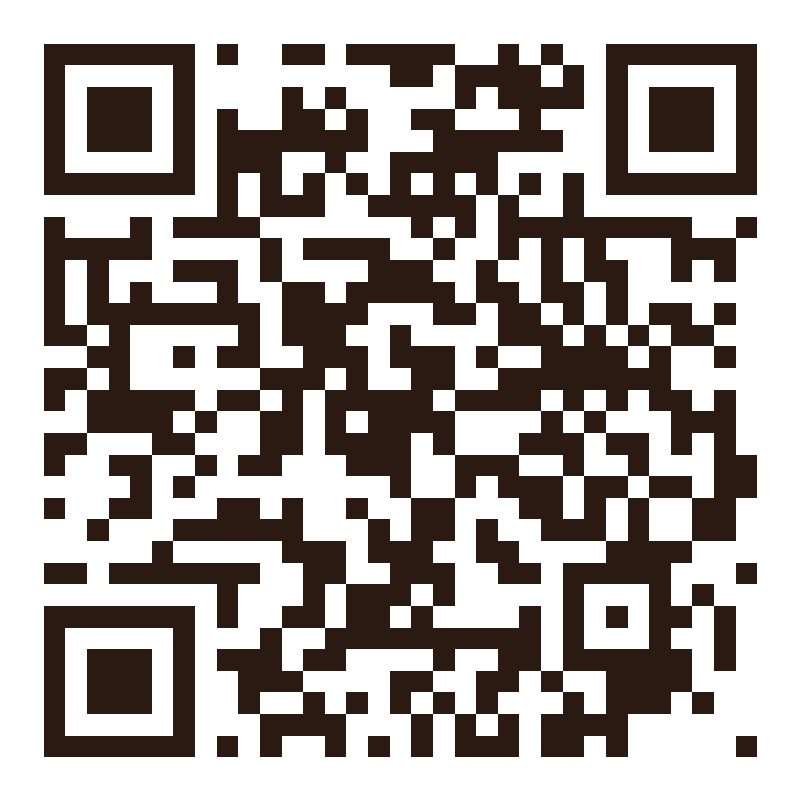
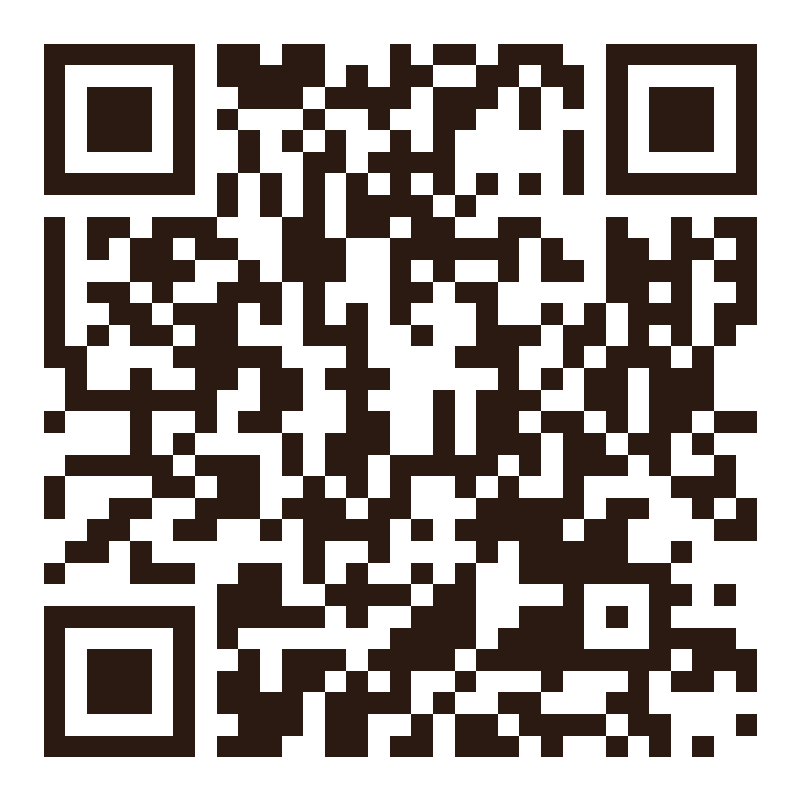
chỉnh lại đường link url

Changed region(s): [[0.0312, 0.0312, 0.9688, 0.9688], [0.0625, 0.625, 0.2188, 0.75]]

diff --git a/project/app/admin/qr/page.tsx b/project/app/admin/qr/page.tsx
@@ -1,4 +1,4 @@
-"use client"
+"use client"
 
 import { useEffect, useMemo, useState } from "react"
 import QRCode from "qrcode"
@@ -170,7 +170,7 @@ function QrCards() {
           <input
             value={base}
             onChange={(e) => setBase(e.target.value)}
-            placeholder="https://foodlingo.vercel.app"
+            placeholder="https://viviet.vercel.app"
             className="h-11 w-full rounded-xl border border-border bg-background px-3 text-sm outline-none focus:border-primary"
           />
         </label>
